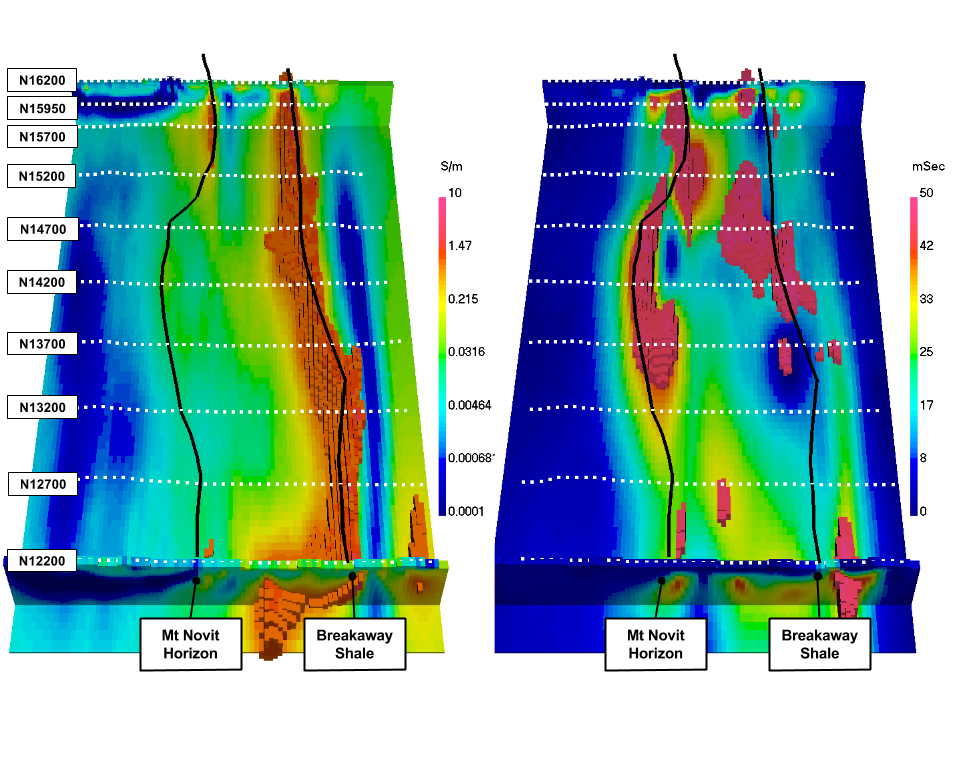
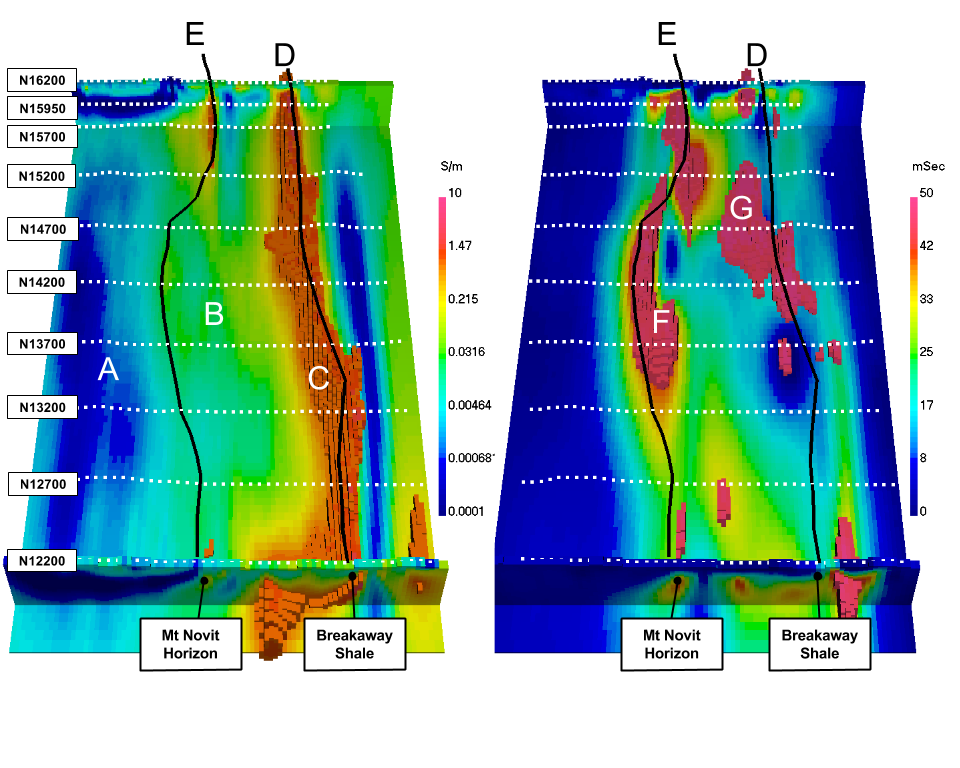
Update interpretation and Doug's edits

diff --git a/content/case_histories/mt_isa/interpretation.rst b/content/case_histories/mt_isa/interpretation.rst
@@ -3,34 +3,73 @@
 Interpretation
 ==============
 
-In this section, we interpet the physical property models recovered through inversion, in terms of geologic units. The basis of our interpretations comes from the :ref:`physical properties table <MIMgeoTable>` and the :ref:`geologic cross-section <Geology_Section>`. The cross-section is most appropriate for line N12200. We also provide two plan view sections (:numref:`MtIsa_3D_Model_Plan`) that aid the discussion.
+In this section, we interpet the physical property models recovered through
+inversion, in terms of geologic units. The basis of our interpretations comes
+from the :ref:`physical properties table <MIMgeoTable>` and the :ref:`geologic
+cross-section <Geology_Section>`. The cross-section is most appropriate for
+line N12200. We also provide two plan view sections
+(:numref:`MtIsa_3D_Model_Plan`) that aid the discussion.
 
-The animations for :ref:`conductivity <MIMconMovie>` and :ref:`chargeabilty <MIMchgMovie>` were presented in the previous section and iso-surface images are provided in :numref:`MtIsa_3D_Model_Interp`. On those images the following features are incorporated in the interpretation.
+Broad Scale
+-----------
 
-A: Eastern Creek Volcanics: The quartzite unit is resistive and non-chargeable. It appears as a vertical contact between the Moondarra and Native Bee siltstones.
-
-B: The predominant rocks in this region are the Moondarra and Native Bee siltstones. They cannot be distinguished on the basis of conductivity and chargeabilty. The easternly located Moondara rocks may be separated from the Native Bee siltstones by the resistive Eastern Creek volcanics. There is some indication that we may be seeing the sequency of "Moondarra siltstone - Eastern Creek Volcanics - Native Bee" in the southern part of the inversion, near 12200 where the cross-section is situated. However, as we proceed north, the resistor disappears and so does any way of separating Moondarra and Native Bee rocks.
-
-C: Breakaway Shales: This is a highly conductive unit that dominates the conductivity model. Conductivities in the inversion exceeded 10 S/m. The black line D, which denotes the horizontal location of the near surface portion of the unit, will be used in other images. We note that the shale unit does not appear to be chargeable. This is most evident in the plan-view section in :numref:`MtIsa_3D_Model_Plan` (right). The trace of the high conductivity is associated with chargeabilty lows.
-
-E and F: Mt Novit Horizon: This is characterized by a zone of moderately high conductivity and high chargeabilty. The line E has been drawn to reflect that correlation and it corresponds to a similar trajectory presented in the initial paper by Rutley. The chargeability along this trajectory is not uniform. There is variation in amplitude and breakages.
-
-G: Other regions of chargeability, and potentially minerization, within the siltstone complex. Much of this seems to be "in-board" (west) of the Breakaway shale.
-
-.. figure:: images/MtIsa_3D_Model_Plan.png
-    :align: center
-    :figwidth: 90%
-    :name: MtIsa_3D_Model_Plan
-
-    : Sections through the recovered 3D conductivity (left) and chargeability (right) models. Interpretated geological units (black) are shown for reference.
-
+The animations for :ref:`conductivity <MIMconMovie>` and :ref:`chargeabilty
+<MIMchgMovie>` were presented in the previous section and iso-surface images
+are provided in :numref:`MtIsa_3D_Model_Interp`. On those images the following
+features are incorporated in the interpretation.
 
 .. figure:: images/MtIsa_3D_Model_Interp.png
     :align: center
     :figwidth: 90%
     :name: MtIsa_3D_Model_Interp
 
-    : Perspective view of the recovered 3D conductivity (left) and chargeability (right) models. Interpretated geological units (black) are shown for reference.
+    : Perspective view of the recovered 3D conductivity (left) and chargeability (right) models. Interpreted geological units (black) are shown for reference.
+
+
+A: Surprise Creek Volcanics: The quartzite unit is resistive and non-
+chargeable. It appears as a vertical contact between the Moondarra and Native
+Bee siltstones.
+
+B: The predominant rocks in this region are the Moondarra and Native Bee
+siltstones. They cannot be distinguished on the basis of conductivity and
+chargeabilty. The easternly located Moondara rocks may be separated from the
+Native Bee siltstones by the resistive Eastern Creek volcanics. There is some
+indication that we may be seeing the sequency of "Moondarra siltstone -
+Eastern Creek Volcanics - Native Bee" in the southern part of the inversion,
+near 12200 where the cross-section is situated. However, as we proceed north,
+the resistor disappears and so does any way of separating Moondarra and Native
+Bee rocks.
+
+C: Breakaway Shales: This is a highly conductive unit that dominates the
+conductivity model. Conductivities in the inversion exceeded 10 S/m. The black
+line D, which denotes the horizontal location of the near surface portion of
+the unit, will be used in other images. We note that the shale unit does not
+appear to be chargeable. This is most evident in the plan-view section in
+:numref:`MtIsa_3D_Model_Plan` (right). The trace of the high conductivity is
+associated with chargeabilty lows.
+
+E and F: Mt Novit Horizon: This is characterized by a zone of moderately high
+conductivity and high chargeabilty. The line E has been drawn to reflect that
+correlation and it corresponds to a similar trajectory presented in the
+initial paper by :cite:`rutley2001`. The chargeability along this trajectory
+is not uniform. There is variation in amplitude and there are breakages.
+
+G: Other regions of chargeability, and potentially mineralization, within the
+siltstone complex. Much of this seems to be "in-board" (west) of the Breakaway
+shale.
+
+Finer Scale
+-----------
+
+We continue our interpretation at a finer resolution with horizontal depth
+sections at 125 m below topography (:numref:`MtIsa_3D_Model_Plan`).
+
+.. figure:: images/MtIsa_3D_Model_Plan.png
+    :align: center
+    :figwidth: 90%
+    :name: MtIsa_3D_Model_Plan
+
+    : Sections through the recovered 3D conductivity (left) and chargeability (right) models. Interpreted geological units (black) are shown for reference.
 
 
 .. .. figure:: images/MIMrec.png

diff --git a/content/case_histories/mt_isa/properties.rst b/content/case_histories/mt_isa/properties.rst
@@ -43,7 +43,7 @@ Overall we expect any mineralization unit in this area to be **conductive and ch
 +---------------------------+-------------------+------------------------------------------+--------------------------+
 | Surprise Creek Formation  |  Low              | High (~1000)                             |  None                    |
 +---------------------------+-------------------+------------------------------------------+--------------------------+
-| Eastern Creek Volcanics   |  Low              | High (~1000)                             |  High                    |
+| Eastern Creek Volcanics   |  Low              | High (~1000)                             |  None                    |
 +---------------------------+-------------------+------------------------------------------+--------------------------+
 
 Table of the physical properties for the geologic units in the Cluny survey area.
